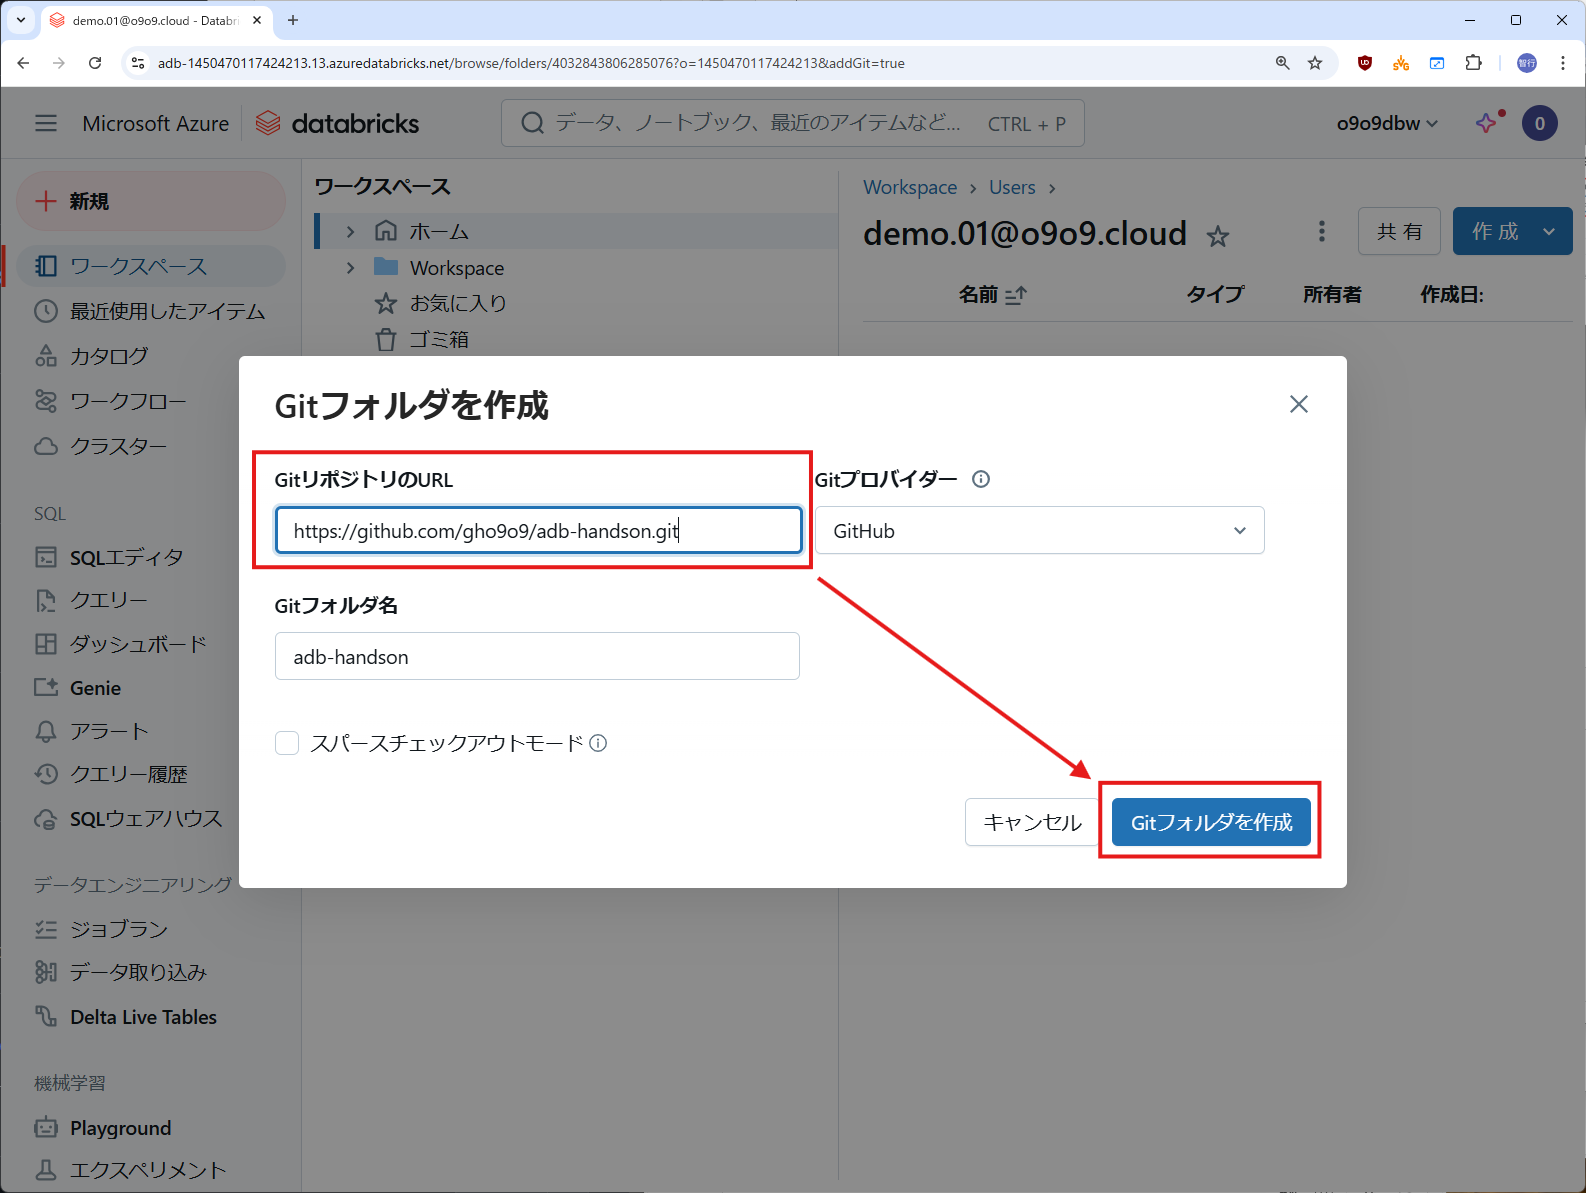
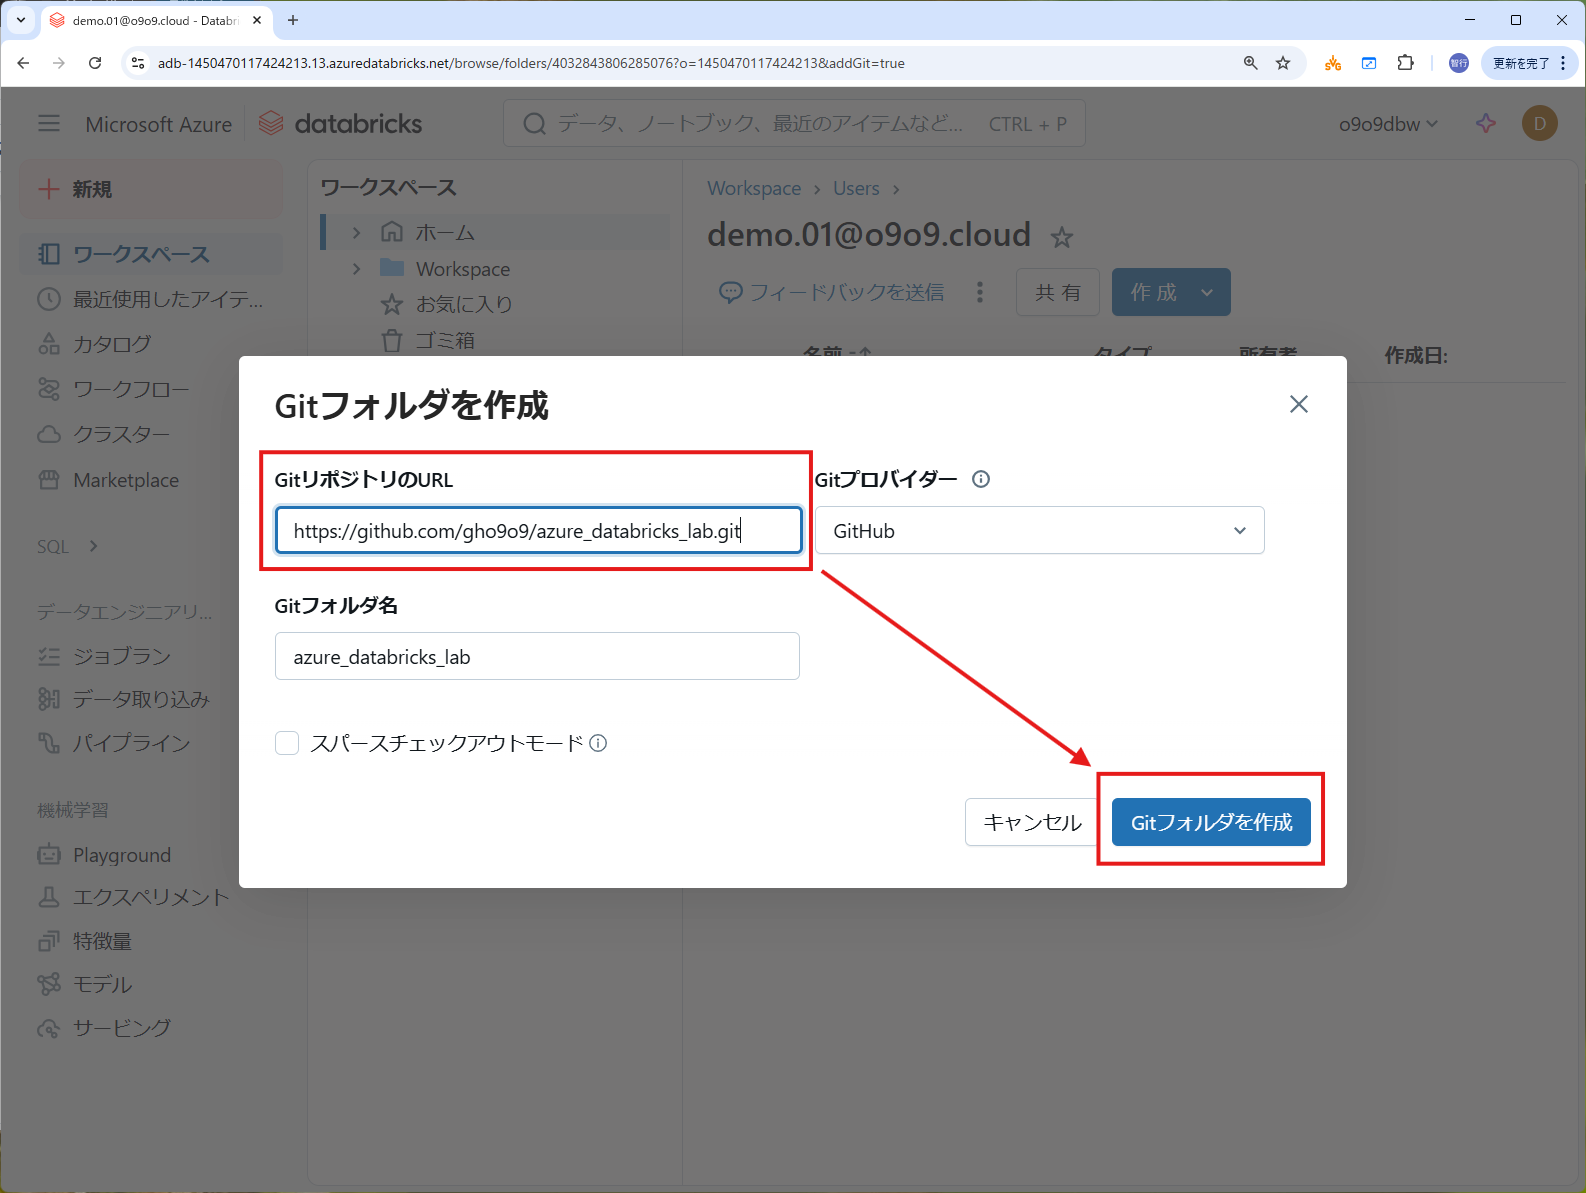
commit

diff --git a/README.md b/README.md
@@ -3,7 +3,6 @@
 - Databricks ワークスペース
 - Databricks カタログ
 - ラボユーザーへの権限割り当て
-- Power BI Desktop のインストール
 - ラボ受講者への案内
 
 ## Databricks ワークスペース
@@ -35,17 +34,14 @@ Unity Catalog が有効化された Azure Databricks ワークスペースを用
 - クラスタに対する **`CREATE CLUSTER`** （ユーザー管理画面で`Unrestricted cluster creation`にチェック）
 </br><img src="images/readme.3.png" width="600"/>
 
-## Power BI Desktop のインストール
-[Power BI Desktop](https://www.microsoft.com/ja-jp/power-platform/products/power-bi/desktop) を各自の PC にインストールしてください。最新版が望ましいです。
-</br><img src="images/readme.4.png" width="600"/>
-</br><img src="images/readme.5.png" width="600"/>
-
 ## ラボ受講者への案内
 以下の情報を受講者へ案内してください。
 - Databricks ワークスペースの URL
 - Unity Catalog カタログ名
-- ラボコンテンツの Repo アドレス
-  * https://github.com/gho9o9/adb-handson/blob/main/01_Setup.ipynb
+- ラボコンテンツの [Repo アドレス](https://github.com/gho9o9/azure_databricks_lab)（https://github.com/gho9o9/azure_databricks_lab）
+- 各自の PC への[Power BI Desktop](https://www.microsoft.com/ja-jp/power-platform/products/power-bi/desktop) のインストール（最新版が望ましいです）
+</br><img src="images/readme.4.png" width="600"/>
+</br><img src="images/readme.5.png" width="600"/>
 
 # Next Action:
 ラボ当日を迎えましょう！ラボ受講者は<a href="$./01_Setup">こちらのノートブック</a>からスタートします。
